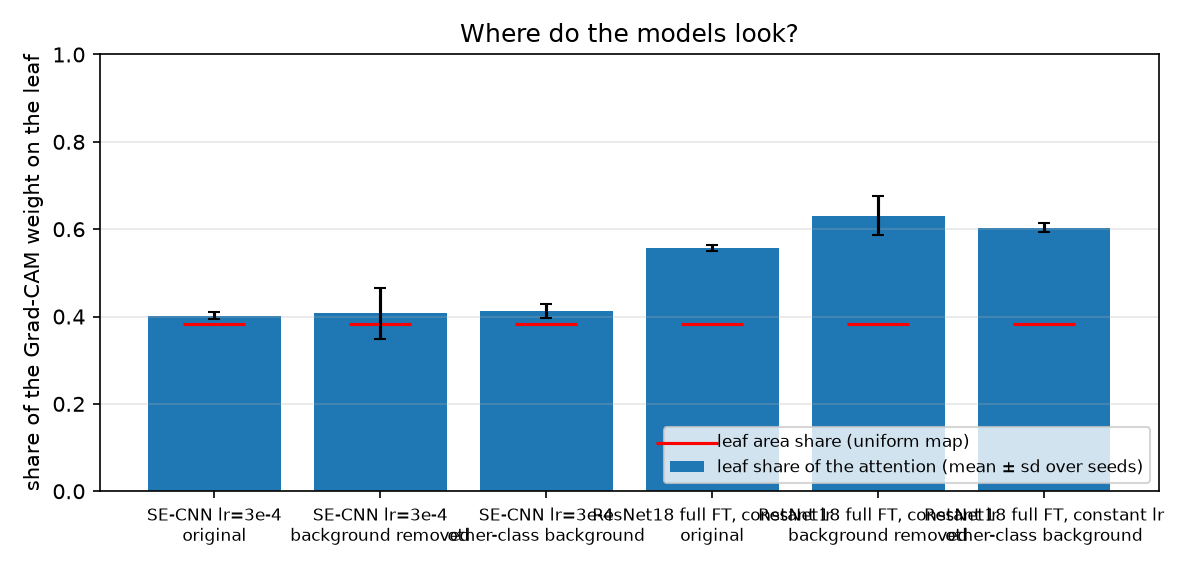
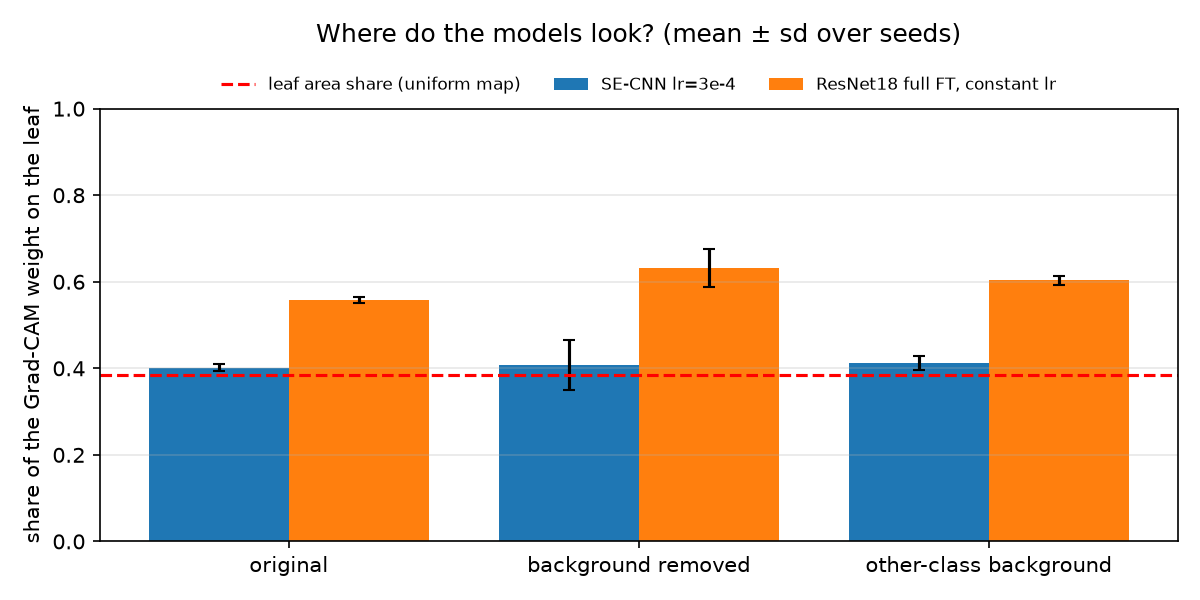
Add output files

diff --git a/plantdisease/data.py b/plantdisease/data.py
@@ -44,10 +44,11 @@ def sparse_checkout(url, root, folders):
 
 def download_github_folders(url, root, folders):
     # Download `folders` of a GitHub repository file by file over HTTPS (no git needed); returns the
-    # folders that contain images afterwards. Characters that Windows does not allow in file names
+    # folders that were downloaded completely. Characters that Windows does not allow in file names
     # (PlantDoc has names like '...picture-id81781575?s=612x612.jpg') are replaced by '_'.
     repo = url.removeprefix("https://github.com/").strip("/")
-    missing = [f for f in folders if not os.path.exists(os.path.join(root, f, ".complete"))]
+    done = [os.path.join(root, f, ".complete") for f in folders]
+    missing = [f for f, d in zip(folders, done, strict=True) if not os.path.exists(d)]
     if missing:
         try:
             api = f"https://api.github.com/repos/{repo}/git/trees/HEAD?recursive=1"
@@ -68,19 +69,20 @@ def download_github_folders(url, root, folders):
                     if os.path.exists(target):
                         continue
                     raw = f"https://raw.githubusercontent.com/{repo}/HEAD/{urllib.parse.quote(path)}"
-                    with urllib.request.urlopen(raw, timeout=60) as response:  # noqa: S310
-                        with open(target + ".part", "wb") as f:
-                            shutil.copyfileobj(response, f)
+                    for attempt in range(3):
+                        try:
+                            with urllib.request.urlopen(raw, timeout=60) as response:  # noqa: S310
+                                with open(target + ".part", "wb") as f:
+                                    shutil.copyfileobj(response, f)
+                            break
+                        except OSError:
+                            if attempt == 2:
+                                raise
                     os.replace(target + ".part", target)
                 open(os.path.join(root, folder, ".complete"), "w").close()  # noqa: SIM115
         except OSError as e:
-            print(f"Download from {url} failed: {e}")
-    return [
-        f
-        for f in folders
-        if os.path.isdir(os.path.join(root, f))
-        and any(n.lower().endswith(IMAGE_SUFFIXES) for n in os.listdir(os.path.join(root, f)))
-    ]
+            print(f"Download from {url} stopped: {e}. Run this again to resume.")
+    return [f for f, d in zip(folders, done, strict=True) if os.path.exists(d)]
 
 
 def download_plantvillage():
